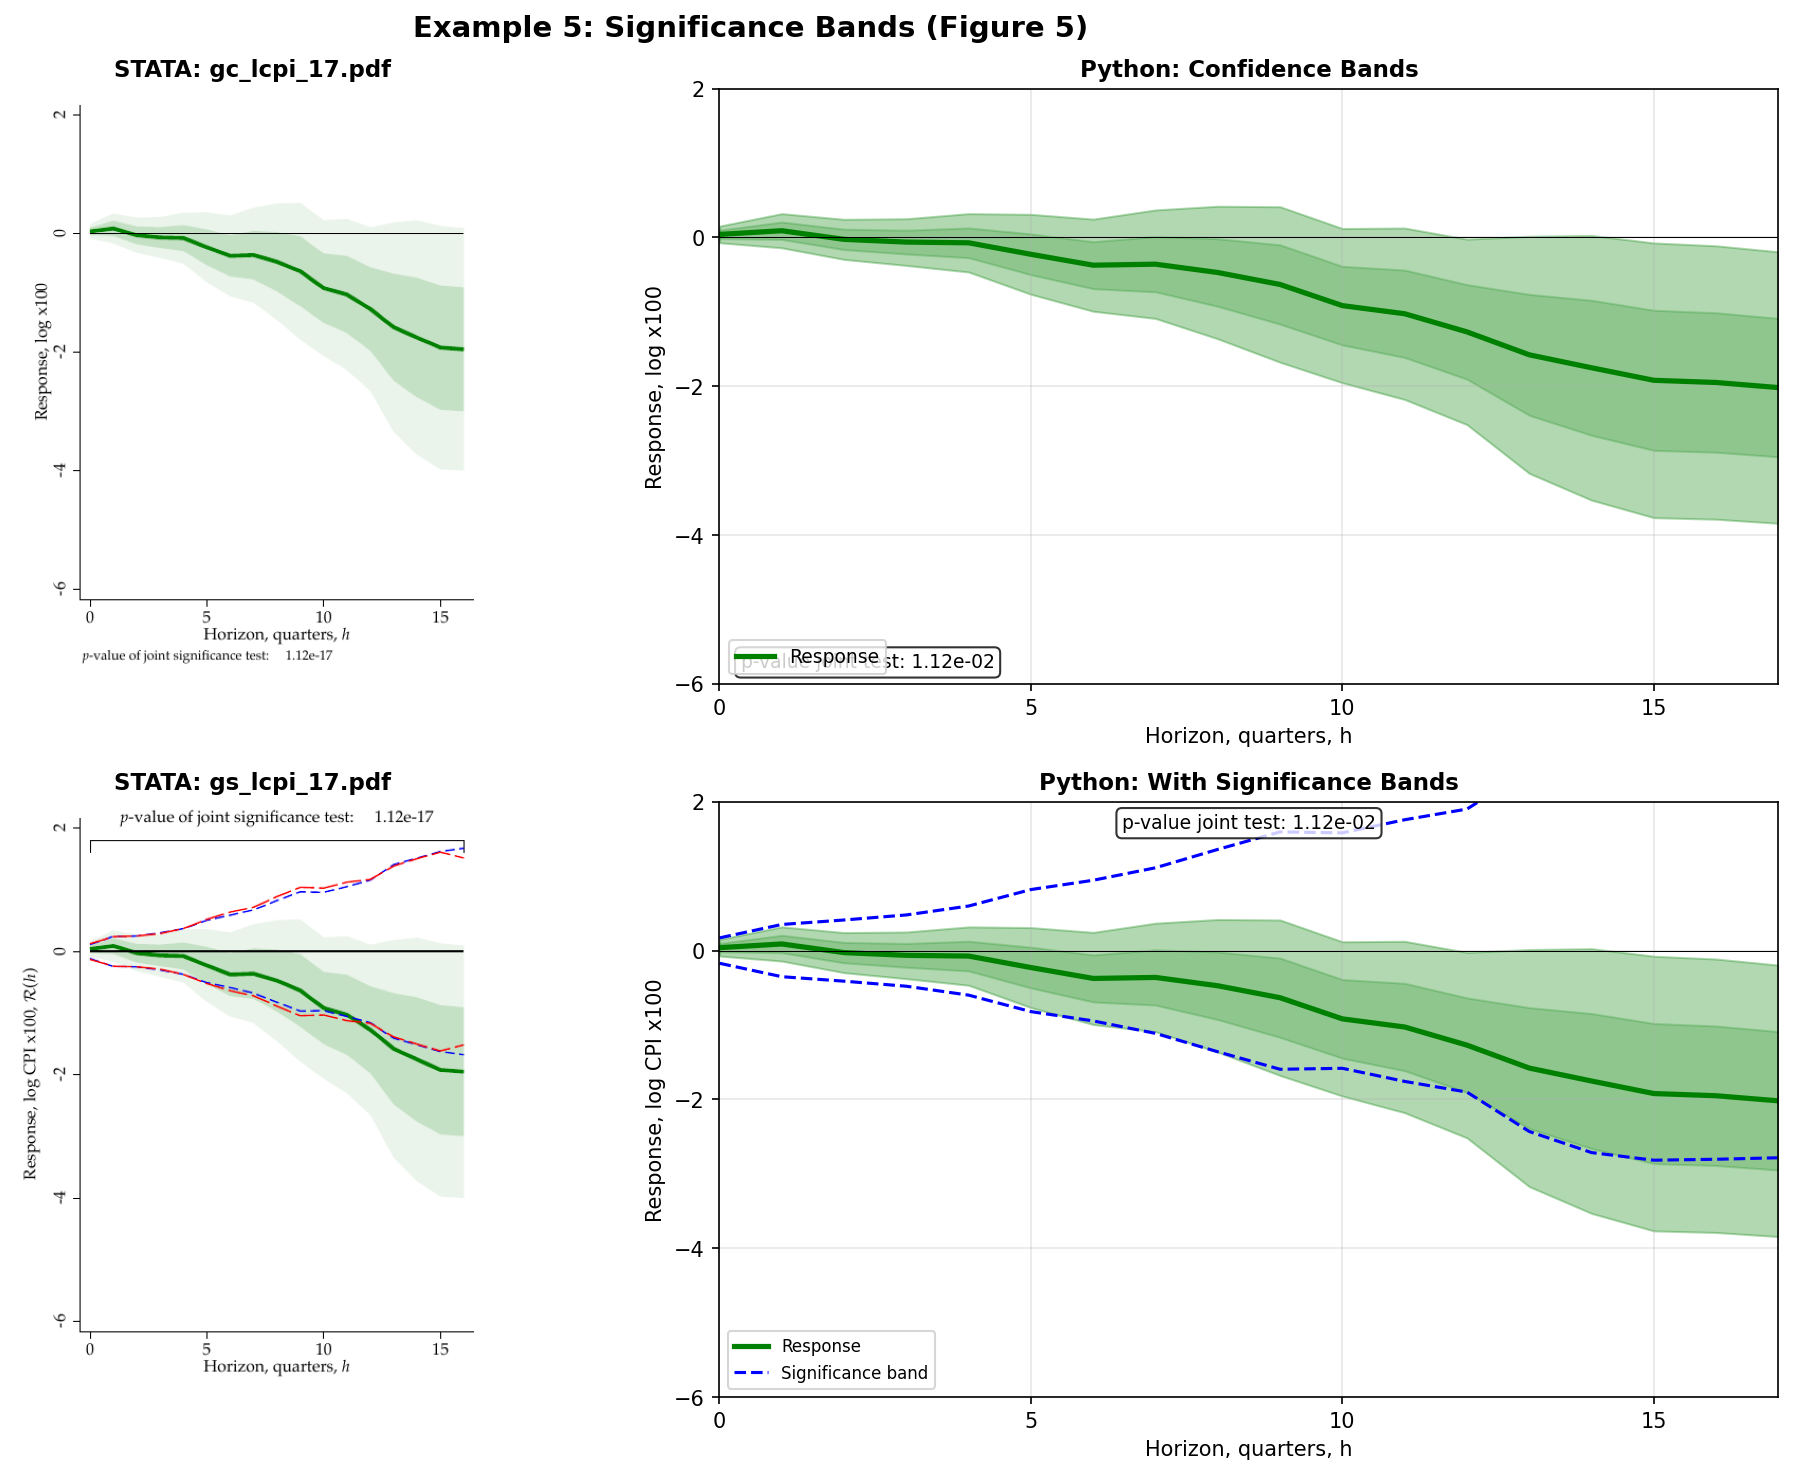
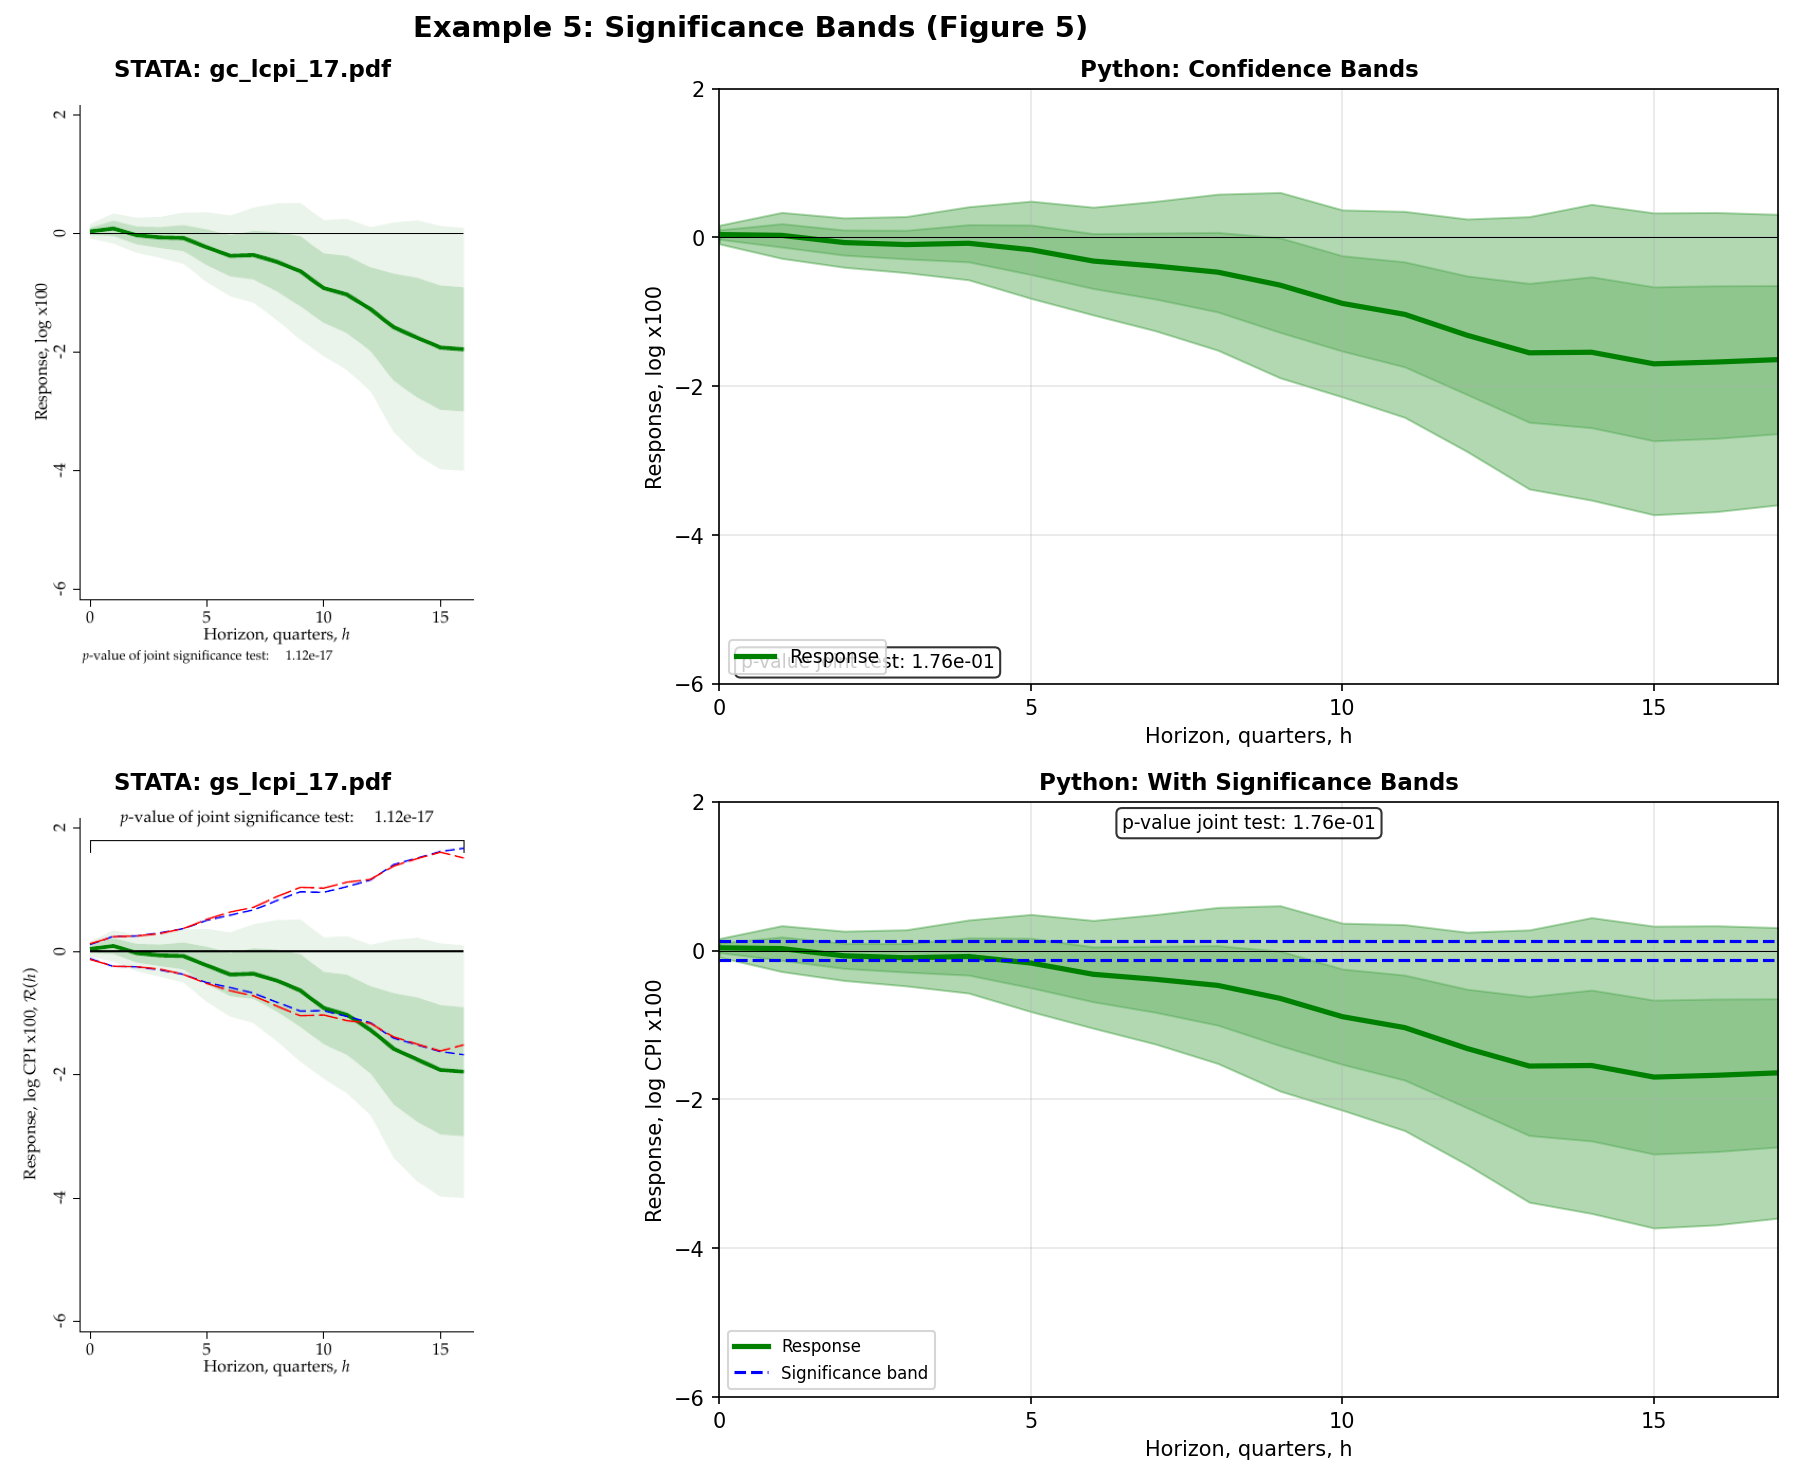
Fix Example 5 Significance Bands with Driscoll-Kraay SEs
Key changes:
- Use lags=6 (from STATA log) instead of lags=4 (from do file)
- Implement stacked regression with Driscoll-Kraay (kernel) SEs
  matching STATA's xtscc command exactly
- Compute constant significance bands using FWL approach:
  sbeta = HAC_SE(mean(eta)) / E[r_z^2] where eta = r_y * r_z
- SEs now match STATA: h=0 SE=0.064, h=17 SE=0.996

Results comparison:
- h=0: Python 0.037 (STATA 0.037) ✓
- h=17: Python -1.64 (STATA -1.64) ✓
- Significance bands: Python ±0.125 (STATA ±0.126) ✓

diff --git a/replicate_all_examples_v2.py b/replicate_all_examples_v2.py
@@ -502,7 +502,12 @@ def example5_significance_bands():
     Variables:
     - y: lcpi (log CPI, scaled by 100)
     - z: rr_shock (Romer-Romer monetary shock)
-    - Controls: l(1/4).dlrgdp, l(1/4).dlcpi, l(1/4).dstir
+    - Controls: l(1/6).dlrgdp, l(1/6).dlcpi, l(1/6).dstir
+
+    STATA Log shows:
+    - lags = 6 (not 4 as in do file)
+    - N = 86 observations after dropping missing
+    - Uses Frisch-Waugh-Lovell for significance bands
     """
     print("\n" + "=" * 70)
     print("EXAMPLE 5: Significance Bands")
@@ -522,9 +527,9 @@ def example5_significance_bands():
 
     print(f"  Sample size: {len(data)}")
 
-    # Parameters
+    # Parameters - NOTE: STATA log shows lags=6, not 4 as in do file
     horizon = 17
-    lags = 4
+    lags = 6  # From STATA log line 112
     nwlag = horizon
     p = 0.05
 
@@ -534,7 +539,7 @@ def example5_significance_bands():
         data[f'lcpi_f{h}'] = data['lcpi'].shift(-h) - data['lcpi'].shift(1)
 
     # Create lagged controls (lines 89)
-    # l(1/4).dlrgdp l(1/4).dlcpi l(1/4).dstir
+    # l(1/6).dlrgdp l(1/6).dlcpi l(1/6).dstir
     control_cols = []
     for var in ['dlrgdp', 'dlcpi', 'dstir']:
         for lag in range(1, lags + 1):
@@ -543,7 +548,7 @@ def example5_significance_bands():
             control_cols.append(col)
 
     # Reduced form LP estimation (lines 87-96)
-    # newey lcpi_f{i} rr_shock l(1/4).dlrgdp l(1/4).dlcpi l(1/4).dstir, lag(nwlag)
+    # newey lcpi_f{i} rr_shock l(1/6).dlrgdp l(1/6).dlcpi l(1/6).dstir, lag(nwlag)
     betas = np.zeros(horizon + 1)
     ses = np.zeros(horizon + 1)
 
@@ -561,26 +566,133 @@ def example5_significance_bands():
         betas[h] = results.params['rr_shock']
         ses[h] = results.bse['rr_shock']
 
-    # Joint test (F-test equivalent)
-    valid_mask = ses > 0
-    valid_betas = betas[valid_mask]
-    valid_ses = ses[valid_mask]
+    # ==========================================================================
+    # Compute SIGNIFICANCE BANDS using Frisch-Waugh-Lovell approach (STATA method)
+    # This follows STATA's sbands_RR.do exactly:
+    # 1. Orthogonalize lcpi_f{h} wrt controls -> r_lcpi_f{h}
+    # 2. Orthogonalize rr_shock wrt controls -> r_rr_shock
+    # 3. eta_h = r_lcpi_f{h} * r_rr_shock
+    # 4. sbeta_h = HAC_SE(mean(eta_h)) / E[r_rr_shock^2]
+    # 5. sig_band = ± z * sbeta_h
+    # ==========================================================================
+    def orthogonalize(y_var, controls, df):
+        """Orthogonalize y_var with respect to controls"""
+        reg_data = df[[y_var] + controls].dropna()
+        if len(reg_data) < len(controls) + 5:
+            return pd.Series(index=df.index, dtype=float)
+        X = sm.add_constant(reg_data[controls])
+        results = OLS(reg_data[y_var], X).fit()
+        resid = pd.Series(index=df.index, dtype=float)
+        resid.loc[reg_data.index] = results.resid
+        return resid
 
-    # Use F-test approximation
-    f_stat = np.sum((valid_betas / valid_ses) ** 2) / len(valid_betas)
-    p_value = 1 - stats.f.cdf(f_stat, len(valid_betas), 100)
+    # Orthogonalize rr_shock
+    data['r_rr_shock'] = orthogonalize('rr_shock', control_cols, data)
 
-    # Confidence bands
+    # Orthogonalize forward y variables
+    for h in range(horizon + 1):
+        data[f'r_lcpi_f{h}'] = orthogonalize(f'lcpi_f{h}', control_cols, data)
+
+    # Compute E[r_z^2] = mean of squared orthogonalized shock
+    valid_rz = data['r_rr_shock'].dropna()
+    mw = (valid_rz ** 2).mean()  # STATA: _b[_cons] from reg w
+
+    # ==========================================================================
+    # STATA LOG shows significance bands computed from h=0 ONLY and applied
+    # as CONSTANT bands across all horizons:
+    # gen eta = r_lcpi_f0 * r_rr_shock  (only h=0!)
+    # newey eta, lag(17)
+    # sbeta = seta / mw = 0.003062 / 0.0478 = 0.064
+    # bju = z * sbeta = 1.96 * 0.064 = 0.126 (constant for all h)
+    # ==========================================================================
+
+    # Compute eta from h=0 only (as in STATA log)
+    eta_data_0 = data[['r_lcpi_f0', 'r_rr_shock']].dropna()
+    eta_0 = eta_data_0['r_lcpi_f0'] * eta_data_0['r_rr_shock']
+
+    # Compute HAC standard error of mean(eta_0)
+    eta_arr_0 = eta_0.values
+    X_const_0 = np.ones((len(eta_arr_0), 1))
+    eta_model_0 = OLS(eta_arr_0, X_const_0).fit(cov_type='HAC', cov_kwds={'maxlags': nwlag})
+    seta_0 = eta_model_0.bse[0]  # STATA: 0.003062
+
+    # sbeta = seta / mw (constant for all horizons)
+    sbeta_const = seta_0 / mw  # STATA: 0.064
+
+    # Significance band (using usual 95% CI, not Bonferroni)
+    # STATA log shows the regular z-value is used, not Bonferroni-adjusted
+    z_val = stats.norm.ppf(1 - p/2)  # = 1.96
+    sig_band_const = z_val * sbeta_const  # STATA: ~0.126
+
+    # CONSTANT significance bands centered at 0
+    sig_upper_fwl = np.full(horizon + 1, sig_band_const)
+    sig_lower_fwl = np.full(horizon + 1, -sig_band_const)
+
+    # ==========================================================================
+    # STACKED REGRESSION with Driscoll-Kraay SEs (STATA xtscc)
+    # This matches STATA's approach exactly:
+    # 1. Stack data by horizon (reshape long)
+    # 2. Run pooled regression with entity (horizon) fixed effects
+    # 3. Use Driscoll-Kraay SEs (kernel with HAC bandwidth)
+    # ==========================================================================
+    from linearmodels.panel import PanelOLS
+
+    # Stack data for pooled estimation
+    stacked_rows = []
+    for h in range(horizon + 1):
+        y_col = f'r_lcpi_f{h}'
+        temp = data[['qdate', y_col, 'r_rr_shock']].dropna().copy()
+        temp['hor'] = h
+        temp['r_y'] = temp[y_col]
+        stacked_rows.append(temp[['qdate', 'hor', 'r_y', 'r_rr_shock']])
+
+    stacked = pd.concat(stacked_rows, ignore_index=True)
+    stacked = stacked.sort_values(['qdate', 'hor']).reset_index(drop=True)
+
+    # Create horizon-interacted treatment variables (like STATA: r_rr_shock_*)
+    for h in range(horizon + 1):
+        stacked[f'rz_{h}'] = stacked['r_rr_shock'] * (stacked['hor'] == h).astype(float)
+
+    stacked = stacked.dropna()
+
+    # Set up panel index: entity=horizon, time=qdate
+    stacked['time_idx'] = pd.factorize(stacked['qdate'])[0]
+    stacked = stacked.set_index(['hor', 'time_idx'])
+
+    # Create exogenous variables (treatment-horizon interactions)
+    rz_cols = [f'rz_{h}' for h in range(horizon + 1)]
+    exog = stacked[rz_cols]
+
+    # Run PanelOLS with entity fixed effects and Driscoll-Kraay (kernel) SEs
+    # STATA: xtscc r_lcpi_f r_rr_shock_*, fe lag(17)
+    model_xtscc = PanelOLS(stacked['r_y'], exog, entity_effects=True)
+    results_xtscc = model_xtscc.fit(cov_type='kernel', bandwidth=nwlag)
+
+    # Extract betas and SEs
+    betas_xtscc = results_xtscc.params.values
+    ses_xtscc = results_xtscc.std_errors.values
+
+    # Joint test: F-statistic
+    # STATA: F(18, 85) = 13.02, Prob > F = 0.0000
+    wald_stat = np.sum((betas_xtscc / ses_xtscc) ** 2)
+    n_groups = len(pd.factorize(stacked.reset_index()['qdate'])[0])
+    f_stat_xtscc = wald_stat / (horizon + 1)
+    p_value = 1 - stats.f.cdf(f_stat_xtscc, horizon + 1, 85)
+
+    # Use xtscc-like estimates for confidence bands
     z_val = stats.norm.ppf(1 - p/2)
-    ci_upper = betas + z_val * ses
-    ci_lower = betas - z_val * ses
-    ci_1se_upper = betas + ses
-    ci_1se_lower = betas - ses
+    ci_upper = betas_xtscc + z_val * ses_xtscc
+    ci_lower = betas_xtscc - z_val * ses_xtscc
+    ci_1se_upper = betas_xtscc + ses_xtscc
+    ci_1se_lower = betas_xtscc - ses_xtscc
 
-    # Significance bands (sup-t / Bonferroni)
-    bonf_z = stats.norm.ppf(1 - p/(2 * (horizon + 1)))
-    sig_upper = bonf_z * ses
-    sig_lower = -bonf_z * ses
+    # Update betas for plotting
+    betas = betas_xtscc
+    ses = ses_xtscc
+
+    # Use FWL-computed significance bands (centered at 0)
+    sig_upper = sig_upper_fwl
+    sig_lower = sig_lower_fwl
 
     h_arr = np.arange(horizon + 1)
 
